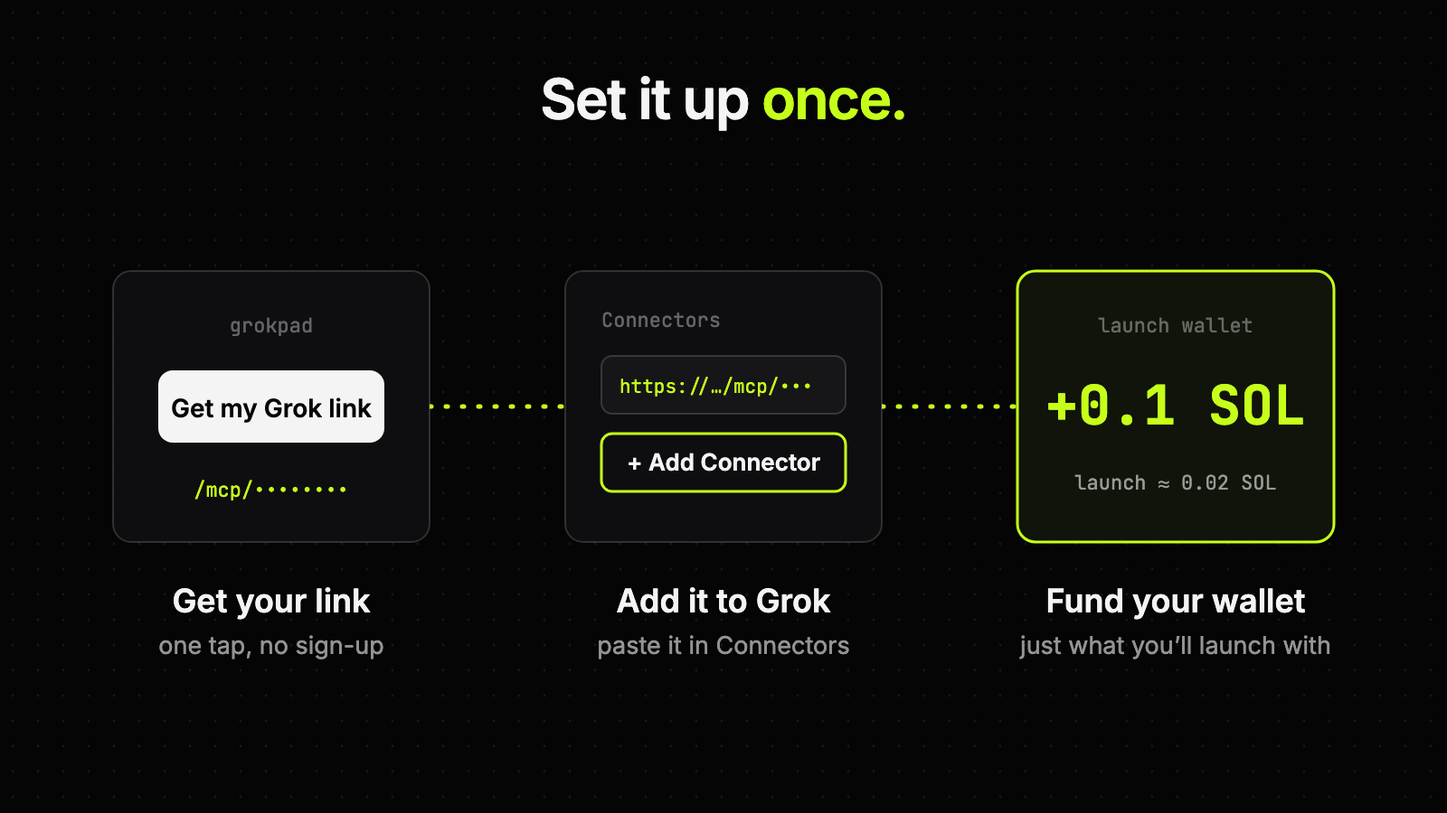
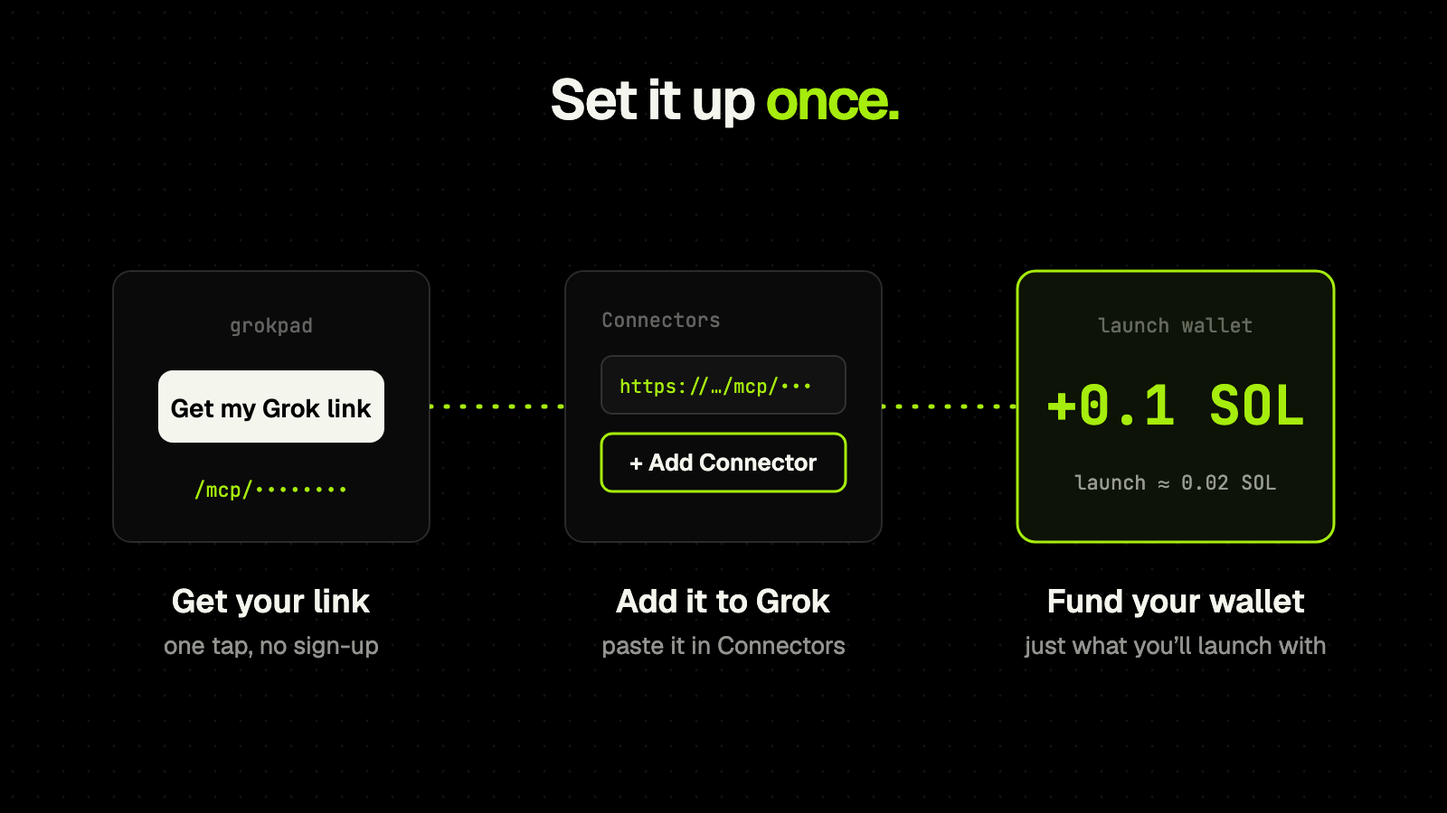
fix: Grokpad article uses the real wordmark and grokpad.org
The first pass typed the name in a plain font and linked the Railway address; the redesign has an LED wordmark and the domain is live.

diff --git a/kits/grokpad/art/02-setup.html b/kits/grokpad/art/02-setup.html
@@ -1,21 +1,21 @@
 <!doctype html><html><head><meta charset="utf-8">
 <link rel="preconnect" href="https://fonts.googleapis.com"><link rel="preconnect" href="https://fonts.gstatic.com" crossorigin>
-<link href="https://fonts.googleapis.com/css2?family=Inter:wght@400;500;600;700&family=JetBrains+Mono:wght@400;500;700&display=block" rel="stylesheet">
+<link href="https://fonts.googleapis.com/css2?family=Geist:wght@400;500;600;700&family=JetBrains+Mono:wght@400;500;700&display=block" rel="stylesheet">
 <style>
-html,body{margin:0;padding:0;background:#050506;overflow:hidden}
+html,body{margin:0;padding:0;background:#000000;overflow:hidden}
 svg{display:block}
-.disp{font-family:Inter;font-weight:600;fill:#f4f4f5;letter-spacing:-0.025em}
-.txt{font-family:Inter;fill:#f4f4f5}
-.muted{font-family:Inter;fill:rgb(244 244 245 / 0.6)}
-.dim{font-family:Inter;fill:rgb(244 244 245 / 0.38)}
-.mono{font-family:'JetBrains Mono';fill:#f4f4f5}
-.lime{fill:#c6ff1a}
-.panel{fill:#0e0e10;stroke:rgb(255 255 255 / 0.16);stroke-width:2}
-.panel-lit{fill:#10140a;stroke:#c6ff1a;stroke-width:3}
-.wire{fill:none;stroke:#c6ff1a;stroke-width:5;stroke-linecap:round}
+.disp{font-family:Geist;font-weight:600;fill:#f4f6ee;letter-spacing:-0.04em}
+.txt{font-family:Geist;fill:#f4f6ee}
+.muted{font-family:Geist;fill:rgb(244 246 238 / 0.6)}
+.dim{font-family:Geist;fill:rgb(244 246 238 / 0.38)}
+.mono{font-family:'JetBrains Mono';fill:#f4f6ee}
+.lime{fill:#a6ec0d}
+.panel{fill:#0a0a0a;stroke:rgb(255 255 255 / 0.15);stroke-width:2}
+.panel-lit{fill:#0d1306;stroke:#a6ec0d;stroke-width:3}
+.wire{fill:none;stroke:#a6ec0d;stroke-width:5;stroke-linecap:round}
 .wire-dim{fill:none;stroke:rgb(255 255 255 / 0.22);stroke-width:4;stroke-linecap:round}
-.dash{fill:none;stroke:#c6ff1a;stroke-width:5;stroke-dasharray:2 16;stroke-linecap:round}
+.dash{fill:none;stroke:#a6ec0d;stroke-width:5;stroke-dasharray:2 16;stroke-linecap:round}
 </style></head><body><svg width="1600" height="900" viewBox="0 0 1600 900"><defs>
-<radialGradient id="glow" cx="0.5" cy="0.5" r="0.5"><stop offset="0" stop-color="#c6ff1a" stop-opacity="0.16"/><stop offset="1" stop-color="#c6ff1a" stop-opacity="0"/></radialGradient>
-<pattern id="dots" width="28" height="28" patternUnits="userSpaceOnUse"><circle cx="14" cy="14" r="1.4" fill="#ffffff" fill-opacity="0.07"/></pattern>
-</defs><rect width="1600" height="900" fill="url(#dots)"/><text class="disp" x="800" y="132" font-size="62" text-anchor="middle">Set it up <tspan class="lime">once.</tspan></text><path class="dash" d="M475 450H625"/><path class="dash" d="M975 450H1125"/><rect x="125" y="300" width="350" height="300" rx="20" class="panel"/><rect x="175" y="410" width="250" height="80" rx="16" fill="#f4f4f5"/><text class="txt" x="300" y="462" font-size="28" font-weight="600" text-anchor="middle" style="fill:#050506">Get my Grok link</text><text class="mono" x="300" y="368" font-size="22" text-anchor="middle" style="fill:rgb(244 244 245 / 0.38)">grokpad</text><text class="mono lime" x="300" y="550" font-size="22" text-anchor="middle">/mcp/••••••••</text><rect x="625" y="300" width="350" height="300" rx="20" class="panel"/><text class="mono" x="665" y="362" font-size="22" style="fill:rgb(244 244 245 / 0.38)">Connectors</text><rect x="665" y="394" width="270" height="64" rx="12" fill="#161619" stroke="rgb(255 255 255 / 0.16)" stroke-width="2"/><text class="mono lime" x="685" y="435" font-size="21">https://…/mcp/•••</text><rect x="665" y="480" width="270" height="64" rx="12" fill="none" stroke="#c6ff1a" stroke-width="3"/><text class="txt" x="800" y="521" font-size="26" font-weight="600" text-anchor="middle">+ Add Connector</text><rect x="1125" y="300" width="350" height="300" rx="20" class="panel-lit"/><text class="mono" x="1300" y="368" font-size="22" text-anchor="middle" style="fill:rgb(244 244 245 / 0.38)">launch wallet</text><text class="mono lime" x="1300" y="470" font-size="60" font-weight="700" text-anchor="middle">+0.1 SOL</text><text class="mono" x="1300" y="542" font-size="22" text-anchor="middle" style="fill:rgb(244 244 245 / 0.6)">launch ≈ 0.02 SOL</text><text class="txt" x="300" y="678" font-size="36" font-weight="600" text-anchor="middle">Get your link</text><text class="muted" x="300" y="724" font-size="27" text-anchor="middle">one tap, no sign-up</text><text class="txt" x="800" y="678" font-size="36" font-weight="600" text-anchor="middle">Add it to Grok</text><text class="muted" x="800" y="724" font-size="27" text-anchor="middle">paste it in Connectors</text><text class="txt" x="1300" y="678" font-size="36" font-weight="600" text-anchor="middle">Fund your wallet</text><text class="muted" x="1300" y="724" font-size="27" text-anchor="middle">just what you’ll launch with</text></svg></body></html>
+<radialGradient id="glow" cx="0.5" cy="0.5" r="0.5"><stop offset="0" stop-color="#5aab04" stop-opacity="0.22"/><stop offset="1" stop-color="#a6ec0d" stop-opacity="0"/></radialGradient>
+<pattern id="dots" width="28" height="28" patternUnits="userSpaceOnUse"><circle cx="14" cy="14" r="1.4" fill="#ffffff" fill-opacity="0.075"/></pattern>
+</defs><rect width="1600" height="900" fill="url(#dots)"/><text class="disp" x="800" y="132" font-size="62" text-anchor="middle">Set it up <tspan class="lime">once.</tspan></text><path class="dash" d="M475 450H625"/><path class="dash" d="M975 450H1125"/><rect x="125" y="300" width="350" height="300" rx="20" class="panel"/><rect x="175" y="410" width="250" height="80" rx="16" fill="#f4f6ee"/><text class="txt" x="300" y="462" font-size="28" font-weight="600" text-anchor="middle" style="fill:#000000">Get my Grok link</text><text class="mono" x="300" y="368" font-size="22" text-anchor="middle" style="fill:rgb(244 246 238 / 0.38)">grokpad</text><text class="mono lime" x="300" y="550" font-size="22" text-anchor="middle">/mcp/••••••••</text><rect x="625" y="300" width="350" height="300" rx="20" class="panel"/><text class="mono" x="665" y="362" font-size="22" style="fill:rgb(244 246 238 / 0.38)">Connectors</text><rect x="665" y="394" width="270" height="64" rx="12" fill="#121212" stroke="rgb(255 255 255 / 0.15)" stroke-width="2"/><text class="mono lime" x="685" y="435" font-size="21">https://…/mcp/•••</text><rect x="665" y="480" width="270" height="64" rx="12" fill="none" stroke="#a6ec0d" stroke-width="3"/><text class="txt" x="800" y="521" font-size="26" font-weight="600" text-anchor="middle">+ Add Connector</text><rect x="1125" y="300" width="350" height="300" rx="20" class="panel-lit"/><text class="mono" x="1300" y="368" font-size="22" text-anchor="middle" style="fill:rgb(244 246 238 / 0.38)">launch wallet</text><text class="mono lime" x="1300" y="470" font-size="60" font-weight="700" text-anchor="middle">+0.1 SOL</text><text class="mono" x="1300" y="542" font-size="22" text-anchor="middle" style="fill:rgb(244 246 238 / 0.6)">launch ≈ 0.02 SOL</text><text class="txt" x="300" y="678" font-size="36" font-weight="600" text-anchor="middle">Get your link</text><text class="muted" x="300" y="724" font-size="27" text-anchor="middle">one tap, no sign-up</text><text class="txt" x="800" y="678" font-size="36" font-weight="600" text-anchor="middle">Add it to Grok</text><text class="muted" x="800" y="724" font-size="27" text-anchor="middle">paste it in Connectors</text><text class="txt" x="1300" y="678" font-size="36" font-weight="600" text-anchor="middle">Fund your wallet</text><text class="muted" x="1300" y="724" font-size="27" text-anchor="middle">just what you’ll launch with</text></svg></body></html>

diff --git a/kits/grokpad/art/03-ask.html b/kits/grokpad/art/03-ask.html
@@ -1,21 +1,21 @@
 <!doctype html><html><head><meta charset="utf-8">
 <link rel="preconnect" href="https://fonts.googleapis.com"><link rel="preconnect" href="https://fonts.gstatic.com" crossorigin>
-<link href="https://fonts.googleapis.com/css2?family=Inter:wght@400;500;600;700&family=JetBrains+Mono:wght@400;500;700&display=block" rel="stylesheet">
+<link href="https://fonts.googleapis.com/css2?family=Geist:wght@400;500;600;700&family=JetBrains+Mono:wght@400;500;700&display=block" rel="stylesheet">
 <style>
-html,body{margin:0;padding:0;background:#050506;overflow:hidden}
+html,body{margin:0;padding:0;background:#000000;overflow:hidden}
 svg{display:block}
-.disp{font-family:Inter;font-weight:600;fill:#f4f4f5;letter-spacing:-0.025em}
-.txt{font-family:Inter;fill:#f4f4f5}
-.muted{font-family:Inter;fill:rgb(244 244 245 / 0.6)}
-.dim{font-family:Inter;fill:rgb(244 244 245 / 0.38)}
-.mono{font-family:'JetBrains Mono';fill:#f4f4f5}
-.lime{fill:#c6ff1a}
-.panel{fill:#0e0e10;stroke:rgb(255 255 255 / 0.16);stroke-width:2}
-.panel-lit{fill:#10140a;stroke:#c6ff1a;stroke-width:3}
-.wire{fill:none;stroke:#c6ff1a;stroke-width:5;stroke-linecap:round}
+.disp{font-family:Geist;font-weight:600;fill:#f4f6ee;letter-spacing:-0.04em}
+.txt{font-family:Geist;fill:#f4f6ee}
+.muted{font-family:Geist;fill:rgb(244 246 238 / 0.6)}
+.dim{font-family:Geist;fill:rgb(244 246 238 / 0.38)}
+.mono{font-family:'JetBrains Mono';fill:#f4f6ee}
+.lime{fill:#a6ec0d}
+.panel{fill:#0a0a0a;stroke:rgb(255 255 255 / 0.15);stroke-width:2}
+.panel-lit{fill:#0d1306;stroke:#a6ec0d;stroke-width:3}
+.wire{fill:none;stroke:#a6ec0d;stroke-width:5;stroke-linecap:round}
 .wire-dim{fill:none;stroke:rgb(255 255 255 / 0.22);stroke-width:4;stroke-linecap:round}
-.dash{fill:none;stroke:#c6ff1a;stroke-width:5;stroke-dasharray:2 16;stroke-linecap:round}
+.dash{fill:none;stroke:#a6ec0d;stroke-width:5;stroke-dasharray:2 16;stroke-linecap:round}
 </style></head><body><svg width="1600" height="900" viewBox="0 0 1600 900"><defs>
-<radialGradient id="glow" cx="0.5" cy="0.5" r="0.5"><stop offset="0" stop-color="#c6ff1a" stop-opacity="0.16"/><stop offset="1" stop-color="#c6ff1a" stop-opacity="0"/></radialGradient>
-<pattern id="dots" width="28" height="28" patternUnits="userSpaceOnUse"><circle cx="14" cy="14" r="1.4" fill="#ffffff" fill-opacity="0.07"/></pattern>
-</defs><rect width="1600" height="900" fill="url(#dots)"/><text class="disp" x="800" y="132" font-size="62" text-anchor="middle">Then just <tspan class="lime">ask.</tspan></text><rect x="230" y="210" width="1140" height="560" rx="28" class="panel"/><text class="mono" x="290" y="290" font-size="26" style="fill:rgb(244 244 245 / 0.38)">you</text><text class="mono" x="290" y="338" font-size="31">launch a coin called Moon Cat, ticker MCAT,</text><text class="mono" x="290" y="382" font-size="31">about a cat that lives on the moon</text><text class="mono" x="290" y="466" font-size="26" style="fill:rgb(244 244 245 / 0.38)">grok</text><text class="mono" x="290" y="514" font-size="31" style="fill:rgb(244 244 245 / 0.6)">Done. <tspan style="fill:#f4f4f5">Moon Cat ($MCAT)</tspan> is live on pump.fun:</text><text class="mono lime" x="290" y="558" font-size="31">pump.fun/coin/7xKp…pump</text><text class="mono" x="290" y="602" font-size="31" style="fill:rgb(244 244 245 / 0.6)">Creator fees are locked: 80% to you, 20% to Grokpad.</text><rect x="286.0" y="660" width="330" height="64" rx="32" fill="#161619" stroke="rgb(255 255 255 / 0.16)" stroke-width="2"/><text class="mono" x="451.0" y="701" font-size="23" text-anchor="middle" style="fill:rgb(244 244 245 / 0.6)">“what’s my balance?”</text><rect x="640.0" y="660" width="270" height="64" rx="32" fill="#161619" stroke="rgb(255 255 255 / 0.16)" stroke-width="2"/><text class="mono" x="775.0" y="701" font-size="23" text-anchor="middle" style="fill:rgb(244 244 245 / 0.6)">“sell my MCAT”</text><rect x="934.0" y="660" width="380" height="64" rx="32" fill="#161619" stroke="rgb(255 255 255 / 0.16)" stroke-width="2"/><text class="mono" x="1124.0" y="701" font-size="23" text-anchor="middle" style="fill:rgb(244 244 245 / 0.6)">“withdraw to my wallet”</text><text class="dim" x="800" y="850" font-size="27" text-anchor="middle">No wallet pop-ups. No forms.</text></svg></body></html>
+<radialGradient id="glow" cx="0.5" cy="0.5" r="0.5"><stop offset="0" stop-color="#5aab04" stop-opacity="0.22"/><stop offset="1" stop-color="#a6ec0d" stop-opacity="0"/></radialGradient>
+<pattern id="dots" width="28" height="28" patternUnits="userSpaceOnUse"><circle cx="14" cy="14" r="1.4" fill="#ffffff" fill-opacity="0.075"/></pattern>
+</defs><rect width="1600" height="900" fill="url(#dots)"/><text class="disp" x="800" y="132" font-size="62" text-anchor="middle">Then just <tspan class="lime">ask.</tspan></text><rect x="230" y="210" width="1140" height="560" rx="28" class="panel"/><text class="mono" x="290" y="290" font-size="26" style="fill:rgb(244 246 238 / 0.38)">you</text><text class="mono" x="290" y="338" font-size="31">launch a coin called Moon Cat, ticker MCAT,</text><text class="mono" x="290" y="382" font-size="31">about a cat that lives on the moon</text><text class="mono" x="290" y="466" font-size="26" style="fill:rgb(244 246 238 / 0.38)">grok</text><text class="mono" x="290" y="514" font-size="31" style="fill:rgb(244 246 238 / 0.6)">Done. <tspan style="fill:#f4f6ee">Moon Cat ($MCAT)</tspan> is live on pump.fun:</text><text class="mono lime" x="290" y="558" font-size="31">pump.fun/coin/7xKp…pump</text><text class="mono" x="290" y="602" font-size="31" style="fill:rgb(244 246 238 / 0.6)">Creator fees are locked: 80% to you, 20% to Grokpad.</text><rect x="286.0" y="660" width="330" height="64" rx="32" fill="#121212" stroke="rgb(255 255 255 / 0.15)" stroke-width="2"/><text class="mono" x="451.0" y="701" font-size="23" text-anchor="middle" style="fill:rgb(244 246 238 / 0.6)">“what’s my balance?”</text><rect x="640.0" y="660" width="270" height="64" rx="32" fill="#121212" stroke="rgb(255 255 255 / 0.15)" stroke-width="2"/><text class="mono" x="775.0" y="701" font-size="23" text-anchor="middle" style="fill:rgb(244 246 238 / 0.6)">“sell my MCAT”</text><rect x="934.0" y="660" width="380" height="64" rx="32" fill="#121212" stroke="rgb(255 255 255 / 0.15)" stroke-width="2"/><text class="mono" x="1124.0" y="701" font-size="23" text-anchor="middle" style="fill:rgb(244 246 238 / 0.6)">“withdraw to my wallet”</text><text class="dim" x="800" y="850" font-size="27" text-anchor="middle">No wallet pop-ups. No forms.</text></svg></body></html>

diff --git a/kits/grokpad/art/04-fees.html b/kits/grokpad/art/04-fees.html
@@ -1,21 +1,21 @@
 <!doctype html><html><head><meta charset="utf-8">
 <link rel="preconnect" href="https://fonts.googleapis.com"><link rel="preconnect" href="https://fonts.gstatic.com" crossorigin>
-<link href="https://fonts.googleapis.com/css2?family=Inter:wght@400;500;600;700&family=JetBrains+Mono:wght@400;500;700&display=block" rel="stylesheet">
+<link href="https://fonts.googleapis.com/css2?family=Geist:wght@400;500;600;700&family=JetBrains+Mono:wght@400;500;700&display=block" rel="stylesheet">
 <style>
-html,body{margin:0;padding:0;background:#050506;overflow:hidden}
+html,body{margin:0;padding:0;background:#000000;overflow:hidden}
 svg{display:block}
-.disp{font-family:Inter;font-weight:600;fill:#f4f4f5;letter-spacing:-0.025em}
-.txt{font-family:Inter;fill:#f4f4f5}
-.muted{font-family:Inter;fill:rgb(244 244 245 / 0.6)}
-.dim{font-family:Inter;fill:rgb(244 244 245 / 0.38)}
-.mono{font-family:'JetBrains Mono';fill:#f4f4f5}
-.lime{fill:#c6ff1a}
-.panel{fill:#0e0e10;stroke:rgb(255 255 255 / 0.16);stroke-width:2}
-.panel-lit{fill:#10140a;stroke:#c6ff1a;stroke-width:3}
-.wire{fill:none;stroke:#c6ff1a;stroke-width:5;stroke-linecap:round}
+.disp{font-family:Geist;font-weight:600;fill:#f4f6ee;letter-spacing:-0.04em}
+.txt{font-family:Geist;fill:#f4f6ee}
+.muted{font-family:Geist;fill:rgb(244 246 238 / 0.6)}
+.dim{font-family:Geist;fill:rgb(244 246 238 / 0.38)}
+.mono{font-family:'JetBrains Mono';fill:#f4f6ee}
+.lime{fill:#a6ec0d}
+.panel{fill:#0a0a0a;stroke:rgb(255 255 255 / 0.15);stroke-width:2}
+.panel-lit{fill:#0d1306;stroke:#a6ec0d;stroke-width:3}
+.wire{fill:none;stroke:#a6ec0d;stroke-width:5;stroke-linecap:round}
 .wire-dim{fill:none;stroke:rgb(255 255 255 / 0.22);stroke-width:4;stroke-linecap:round}
-.dash{fill:none;stroke:#c6ff1a;stroke-width:5;stroke-dasharray:2 16;stroke-linecap:round}
+.dash{fill:none;stroke:#a6ec0d;stroke-width:5;stroke-dasharray:2 16;stroke-linecap:round}
 </style></head><body><svg width="1600" height="900" viewBox="0 0 1600 900"><defs>
-<radialGradient id="glow" cx="0.5" cy="0.5" r="0.5"><stop offset="0" stop-color="#c6ff1a" stop-opacity="0.16"/><stop offset="1" stop-color="#c6ff1a" stop-opacity="0"/></radialGradient>
-<pattern id="dots" width="28" height="28" patternUnits="userSpaceOnUse"><circle cx="14" cy="14" r="1.4" fill="#ffffff" fill-opacity="0.07"/></pattern>
-</defs><rect width="1600" height="900" fill="url(#dots)"/><text class="disp" x="800" y="132" font-size="62" text-anchor="middle"><tspan class="lime">80%</tspan> of the fees are yours.</text><rect x="110" y="370" width="360" height="220" rx="20" class="panel"/><text class="muted" x="150" y="440" font-size="28">Creator fees</text><text class="mono" x="150" y="506" font-size="50" font-weight="700">$MCAT</text><text class="dim" x="150" y="552" font-size="25">every trade, forever</text><path class="wire" d="M470 480H640"/><circle cx="760" cy="480" r="195.5" fill="url(#glow)"/><image href="logo.png" x="645.0" y="365.0" width="230" height="230"/><path d="M870 480 C960 480 960 330 1050 330" fill="none" stroke="#c6ff1a" stroke-width="12" stroke-linecap="round"/><path d="M870 480 C960 480 960 650 1050 650" class="wire-dim"/><rect x="1050" y="235" width="440" height="190" rx="20" class="panel-lit"/><text class="mono lime" x="1090" y="364" font-size="96" font-weight="700">80%</text><text class="txt" x="1450" y="324" font-size="32" font-weight="600" text-anchor="end">You</text><text class="muted" x="1450" y="364" font-size="25" text-anchor="end">your wallet</text><rect x="1050" y="570" width="440" height="160" rx="20" class="panel"/><text class="mono" x="1090" y="674" font-size="70" font-weight="700" style="fill:rgb(244 244 245 / 0.6)">20%</text><text class="txt" x="1450" y="660" font-size="32" font-weight="600" text-anchor="end" style="fill:rgb(244 244 245 / 0.6)">Grokpad</text><text class="dim" x="800" y="840" font-size="27" text-anchor="middle">Locked on pump.fun’s fee program at launch. Nobody can change it, us included.</text></svg></body></html>
+<radialGradient id="glow" cx="0.5" cy="0.5" r="0.5"><stop offset="0" stop-color="#5aab04" stop-opacity="0.22"/><stop offset="1" stop-color="#a6ec0d" stop-opacity="0"/></radialGradient>
+<pattern id="dots" width="28" height="28" patternUnits="userSpaceOnUse"><circle cx="14" cy="14" r="1.4" fill="#ffffff" fill-opacity="0.075"/></pattern>
+</defs><rect width="1600" height="900" fill="url(#dots)"/><text class="disp" x="800" y="132" font-size="62" text-anchor="middle"><tspan class="lime">80%</tspan> of the fees are yours.</text><rect x="110" y="370" width="360" height="220" rx="20" class="panel"/><text class="muted" x="150" y="440" font-size="28">Creator fees</text><text class="mono" x="150" y="506" font-size="50" font-weight="700">$MCAT</text><text class="dim" x="150" y="552" font-size="25">every trade, forever</text><path class="wire" d="M470 480H640"/><circle cx="760" cy="480" r="195.5" fill="url(#glow)"/><image href="logo.png" x="645.0" y="365.0" width="230" height="230"/><path d="M870 480 C960 480 960 330 1050 330" fill="none" stroke="#a6ec0d" stroke-width="12" stroke-linecap="round"/><path d="M870 480 C960 480 960 650 1050 650" class="wire-dim"/><rect x="1050" y="235" width="440" height="190" rx="20" class="panel-lit"/><text class="mono lime" x="1090" y="364" font-size="96" font-weight="700">80%</text><text class="txt" x="1450" y="324" font-size="32" font-weight="600" text-anchor="end">You</text><text class="muted" x="1450" y="364" font-size="25" text-anchor="end">your wallet</text><rect x="1050" y="570" width="440" height="160" rx="20" class="panel"/><text class="mono" x="1090" y="674" font-size="70" font-weight="700" style="fill:rgb(244 246 238 / 0.6)">20%</text><text class="txt" x="1450" y="660" font-size="32" font-weight="600" text-anchor="end" style="fill:rgb(244 246 238 / 0.6)">Grokpad</text><text class="dim" x="800" y="840" font-size="27" text-anchor="middle">Locked on pump.fun’s fee program at launch. Nobody can change it, us included.</text></svg></body></html>

diff --git a/kits/grokpad/art/05-close.html b/kits/grokpad/art/05-close.html
@@ -1,21 +1,21 @@
 <!doctype html><html><head><meta charset="utf-8">
 <link rel="preconnect" href="https://fonts.googleapis.com"><link rel="preconnect" href="https://fonts.gstatic.com" crossorigin>
-<link href="https://fonts.googleapis.com/css2?family=Inter:wght@400;500;600;700&family=JetBrains+Mono:wght@400;500;700&display=block" rel="stylesheet">
+<link href="https://fonts.googleapis.com/css2?family=Geist:wght@400;500;600;700&family=JetBrains+Mono:wght@400;500;700&display=block" rel="stylesheet">
 <style>
-html,body{margin:0;padding:0;background:#050506;overflow:hidden}
+html,body{margin:0;padding:0;background:#000000;overflow:hidden}
 svg{display:block}
-.disp{font-family:Inter;font-weight:600;fill:#f4f4f5;letter-spacing:-0.025em}
-.txt{font-family:Inter;fill:#f4f4f5}
-.muted{font-family:Inter;fill:rgb(244 244 245 / 0.6)}
-.dim{font-family:Inter;fill:rgb(244 244 245 / 0.38)}
-.mono{font-family:'JetBrains Mono';fill:#f4f4f5}
-.lime{fill:#c6ff1a}
-.panel{fill:#0e0e10;stroke:rgb(255 255 255 / 0.16);stroke-width:2}
-.panel-lit{fill:#10140a;stroke:#c6ff1a;stroke-width:3}
-.wire{fill:none;stroke:#c6ff1a;stroke-width:5;stroke-linecap:round}
+.disp{font-family:Geist;font-weight:600;fill:#f4f6ee;letter-spacing:-0.04em}
+.txt{font-family:Geist;fill:#f4f6ee}
+.muted{font-family:Geist;fill:rgb(244 246 238 / 0.6)}
+.dim{font-family:Geist;fill:rgb(244 246 238 / 0.38)}
+.mono{font-family:'JetBrains Mono';fill:#f4f6ee}
+.lime{fill:#a6ec0d}
+.panel{fill:#0a0a0a;stroke:rgb(255 255 255 / 0.15);stroke-width:2}
+.panel-lit{fill:#0d1306;stroke:#a6ec0d;stroke-width:3}
+.wire{fill:none;stroke:#a6ec0d;stroke-width:5;stroke-linecap:round}
 .wire-dim{fill:none;stroke:rgb(255 255 255 / 0.22);stroke-width:4;stroke-linecap:round}
-.dash{fill:none;stroke:#c6ff1a;stroke-width:5;stroke-dasharray:2 16;stroke-linecap:round}
+.dash{fill:none;stroke:#a6ec0d;stroke-width:5;stroke-dasharray:2 16;stroke-linecap:round}
 </style></head><body><svg width="1600" height="900" viewBox="0 0 1600 900"><defs>
-<radialGradient id="glow" cx="0.5" cy="0.5" r="0.5"><stop offset="0" stop-color="#c6ff1a" stop-opacity="0.16"/><stop offset="1" stop-color="#c6ff1a" stop-opacity="0"/></radialGradient>
-<pattern id="dots" width="28" height="28" patternUnits="userSpaceOnUse"><circle cx="14" cy="14" r="1.4" fill="#ffffff" fill-opacity="0.07"/></pattern>
-</defs><rect width="1600" height="900" fill="url(#dots)"/><ellipse cx="800" cy="390" rx="620" ry="300" fill="url(#glow)"/><circle cx="529.4499999999999" cy="380" r="238.0" fill="url(#glow)"/><image href="logo.png" x="389.44999999999993" y="240.0" width="280" height="280"/><text class="disp" x="686.2499999999999" y="430.4" font-size="140">Grokpad</text><text class="mono lime" x="800" y="650" font-size="40" font-weight="500" text-anchor="middle">web-production-7f245.up.railway.app</text><text class="muted" x="800" y="720" font-size="32" text-anchor="middle">Say it. It’s live.</text></svg></body></html>
+<radialGradient id="glow" cx="0.5" cy="0.5" r="0.5"><stop offset="0" stop-color="#5aab04" stop-opacity="0.22"/><stop offset="1" stop-color="#a6ec0d" stop-opacity="0"/></radialGradient>
+<pattern id="dots" width="28" height="28" patternUnits="userSpaceOnUse"><circle cx="14" cy="14" r="1.4" fill="#ffffff" fill-opacity="0.075"/></pattern>
+</defs><rect width="1600" height="900" fill="url(#dots)"/><ellipse cx="800" cy="370" rx="692.2315270935961" ry="285.0" fill="url(#glow)"/><image href="lockup.png" x="241.74876847290636" y="220.0" width="1116.5024630541873" height="300"/><text class="mono lime" x="800" y="650" font-size="40" font-weight="500" text-anchor="middle">grokpad.org</text><text class="muted" x="800" y="720" font-size="32" text-anchor="middle">Say it. It’s live.</text></svg></body></html>

diff --git a/kits/grokpad/art/01-cover.html b/kits/grokpad/art/01-cover.html
@@ -1,21 +1,21 @@
 <!doctype html><html><head><meta charset="utf-8">
 <link rel="preconnect" href="https://fonts.googleapis.com"><link rel="preconnect" href="https://fonts.gstatic.com" crossorigin>
-<link href="https://fonts.googleapis.com/css2?family=Inter:wght@400;500;600;700&family=JetBrains+Mono:wght@400;500;700&display=block" rel="stylesheet">
+<link href="https://fonts.googleapis.com/css2?family=Geist:wght@400;500;600;700&family=JetBrains+Mono:wght@400;500;700&display=block" rel="stylesheet">
 <style>
-html,body{margin:0;padding:0;background:#050506;overflow:hidden}
+html,body{margin:0;padding:0;background:#000000;overflow:hidden}
 svg{display:block}
-.disp{font-family:Inter;font-weight:600;fill:#f4f4f5;letter-spacing:-0.025em}
-.txt{font-family:Inter;fill:#f4f4f5}
-.muted{font-family:Inter;fill:rgb(244 244 245 / 0.6)}
-.dim{font-family:Inter;fill:rgb(244 244 245 / 0.38)}
-.mono{font-family:'JetBrains Mono';fill:#f4f4f5}
-.lime{fill:#c6ff1a}
-.panel{fill:#0e0e10;stroke:rgb(255 255 255 / 0.16);stroke-width:2}
-.panel-lit{fill:#10140a;stroke:#c6ff1a;stroke-width:3}
-.wire{fill:none;stroke:#c6ff1a;stroke-width:5;stroke-linecap:round}
+.disp{font-family:Geist;font-weight:600;fill:#f4f6ee;letter-spacing:-0.04em}
+.txt{font-family:Geist;fill:#f4f6ee}
+.muted{font-family:Geist;fill:rgb(244 246 238 / 0.6)}
+.dim{font-family:Geist;fill:rgb(244 246 238 / 0.38)}
+.mono{font-family:'JetBrains Mono';fill:#f4f6ee}
+.lime{fill:#a6ec0d}
+.panel{fill:#0a0a0a;stroke:rgb(255 255 255 / 0.15);stroke-width:2}
+.panel-lit{fill:#0d1306;stroke:#a6ec0d;stroke-width:3}
+.wire{fill:none;stroke:#a6ec0d;stroke-width:5;stroke-linecap:round}
 .wire-dim{fill:none;stroke:rgb(255 255 255 / 0.22);stroke-width:4;stroke-linecap:round}
-.dash{fill:none;stroke:#c6ff1a;stroke-width:5;stroke-dasharray:2 16;stroke-linecap:round}
+.dash{fill:none;stroke:#a6ec0d;stroke-width:5;stroke-dasharray:2 16;stroke-linecap:round}
 </style></head><body><svg width="2000" height="800" viewBox="0 0 2000 800"><defs>
-<radialGradient id="glow" cx="0.5" cy="0.5" r="0.5"><stop offset="0" stop-color="#c6ff1a" stop-opacity="0.16"/><stop offset="1" stop-color="#c6ff1a" stop-opacity="0"/></radialGradient>
-<pattern id="dots" width="28" height="28" patternUnits="userSpaceOnUse"><circle cx="14" cy="14" r="1.4" fill="#ffffff" fill-opacity="0.07"/></pattern>
-</defs><rect width="2000" height="800" fill="url(#dots)"/><ellipse cx="1000" cy="400" rx="760" ry="330" fill="url(#glow)"/><circle cx="671.775" cy="360" r="280.5" fill="url(#glow)"/><image href="logo.png" x="506.775" y="195.0" width="330" height="330"/><text class="disp" x="856.5749999999999" y="421.2" font-size="170">Grokpad</text><text class="muted" x="1000" y="640" font-size="52" text-anchor="middle" font-weight="500">Launch coins by <tspan class="lime">asking Grok.</tspan></text></svg></body></html>
+<radialGradient id="glow" cx="0.5" cy="0.5" r="0.5"><stop offset="0" stop-color="#5aab04" stop-opacity="0.22"/><stop offset="1" stop-color="#a6ec0d" stop-opacity="0"/></radialGradient>
+<pattern id="dots" width="28" height="28" patternUnits="userSpaceOnUse"><circle cx="14" cy="14" r="1.4" fill="#ffffff" fill-opacity="0.075"/></pattern>
+</defs><rect width="2000" height="800" fill="url(#dots)"/><ellipse cx="1000" cy="350" rx="784.5290640394088" ry="323.0" fill="url(#glow)"/><image href="lockup.png" x="367.3152709359606" y="180.0" width="1265.3694581280788" height="340"/><text class="muted" x="1000" y="640" font-size="52" text-anchor="middle" font-weight="500">Launch coins by <tspan class="lime">asking Grok.</tspan></text></svg></body></html>

diff --git a/docs/grokpad/index.html b/docs/grokpad/index.html
@@ -49,7 +49,7 @@ button.ok{background:#f5b301;color:#111}
 <p>Check your balance, sell or withdraw the same way.</p>
 <h2>80% of the fees are yours</h2></div></div></div><div class="step"><div class="num">8</div><div class="card"><div class="head"><span class="tag">Image</span><span class="sp"></span><a class="btn ghost" download="04-fees.png" href="04-fees.png">Download</a><button onclick="copyImage(this)">Copy image</button></div><img src="04-fees.png" alt=""></div></div><div class="step"><div class="num">9</div><div class="card"><div class="head"><span class="tag">Text</span><span class="sp"></span><button onclick="copyText(this)">Copy</button></div><div class="body"><p>Every trade of your coin pays a creator fee. <b>80% goes to your wallet, 20% to Grokpad.</b></p>
 <p>The split is written into pump.fun’s own fee program at launch. Nobody can change it, us included. Payouts run on their own.</p></div></div></div><div class="step"><div class="num">10</div><div class="card"><div class="head"><span class="tag">Image</span><span class="sp"></span><a class="btn ghost" download="05-close.png" href="05-close.png">Download</a><button onclick="copyImage(this)">Copy image</button></div><img src="05-close.png" alt=""></div></div><div class="step"><div class="num">11</div><div class="card"><div class="head"><span class="tag">Text</span><span class="sp"></span><button onclick="copyText(this)">Copy</button></div><div class="body"><h2>Say it. It’s live.</h2>
-<p><b>Get your link at web-production-7f245.up.railway.app</b></p>
+<p><b>Get your link at grokpad.org</b></p>
 <p>What’s the first coin you’d ask Grok for?</p></div></div></div></div>
 </div>
 <div class="toast" id="toast">Copied</div>

diff --git a/kits/grokpad/art/gen.py b/kits/grokpad/art/gen.py
@@ -1,35 +1,35 @@
 """Builds each article picture as an HTML page in Grokpad's look. tools/render.py shoots them to PNG.
 
-Colours and fonts come from the grok-launcher site (globals.css, layout.tsx): near-black, white type,
-Inter + JetBrains Mono. The highlight is the lime from the newest logo (branding/logo.png, keyed to logo.png here).
+Colours, fonts and logos come from the grok-launcher redesign (frontend worktree: globals.css, docs/BRAND.md,
+public/brand): LED white on true black, Geist + JetBrains Mono, the logo's lime as the one accent.
 """
 
 HEAD = '''<!doctype html><html><head><meta charset="utf-8">
 <link rel="preconnect" href="https://fonts.googleapis.com"><link rel="preconnect" href="https://fonts.gstatic.com" crossorigin>
-<link href="https://fonts.googleapis.com/css2?family=Inter:wght@400;500;600;700&family=JetBrains+Mono:wght@400;500;700&display=block" rel="stylesheet">
+<link href="https://fonts.googleapis.com/css2?family=Geist:wght@400;500;600;700&family=JetBrains+Mono:wght@400;500;700&display=block" rel="stylesheet">
 <style>
-html,body{margin:0;padding:0;background:#050506;overflow:hidden}
+html,body{margin:0;padding:0;background:#000000;overflow:hidden}
 svg{display:block}
-.disp{font-family:Inter;font-weight:600;fill:#f4f4f5;letter-spacing:-0.025em}
-.txt{font-family:Inter;fill:#f4f4f5}
-.muted{font-family:Inter;fill:rgb(244 244 245 / 0.6)}
-.dim{font-family:Inter;fill:rgb(244 244 245 / 0.38)}
-.mono{font-family:'JetBrains Mono';fill:#f4f4f5}
-.lime{fill:#c6ff1a}
-.panel{fill:#0e0e10;stroke:rgb(255 255 255 / 0.16);stroke-width:2}
-.panel-lit{fill:#10140a;stroke:#c6ff1a;stroke-width:3}
-.wire{fill:none;stroke:#c6ff1a;stroke-width:5;stroke-linecap:round}
+.disp{font-family:Geist;font-weight:600;fill:#f4f6ee;letter-spacing:-0.04em}
+.txt{font-family:Geist;fill:#f4f6ee}
+.muted{font-family:Geist;fill:rgb(244 246 238 / 0.6)}
+.dim{font-family:Geist;fill:rgb(244 246 238 / 0.38)}
+.mono{font-family:'JetBrains Mono';fill:#f4f6ee}
+.lime{fill:#a6ec0d}
+.panel{fill:#0a0a0a;stroke:rgb(255 255 255 / 0.15);stroke-width:2}
+.panel-lit{fill:#0d1306;stroke:#a6ec0d;stroke-width:3}
+.wire{fill:none;stroke:#a6ec0d;stroke-width:5;stroke-linecap:round}
 .wire-dim{fill:none;stroke:rgb(255 255 255 / 0.22);stroke-width:4;stroke-linecap:round}
-.dash{fill:none;stroke:#c6ff1a;stroke-width:5;stroke-dasharray:2 16;stroke-linecap:round}
+.dash{fill:none;stroke:#a6ec0d;stroke-width:5;stroke-dasharray:2 16;stroke-linecap:round}
 </style></head><body>'''
 
 DEFS = '''<defs>
-<radialGradient id="glow" cx="0.5" cy="0.5" r="0.5"><stop offset="0" stop-color="#c6ff1a" stop-opacity="0.16"/><stop offset="1" stop-color="#c6ff1a" stop-opacity="0"/></radialGradient>
-<pattern id="dots" width="28" height="28" patternUnits="userSpaceOnUse"><circle cx="14" cy="14" r="1.4" fill="#ffffff" fill-opacity="0.07"/></pattern>
+<radialGradient id="glow" cx="0.5" cy="0.5" r="0.5"><stop offset="0" stop-color="#5aab04" stop-opacity="0.22"/><stop offset="1" stop-color="#a6ec0d" stop-opacity="0"/></radialGradient>
+<pattern id="dots" width="28" height="28" patternUnits="userSpaceOnUse"><circle cx="14" cy="14" r="1.4" fill="#ffffff" fill-opacity="0.075"/></pattern>
 </defs>'''
 
-LIME = '#c6ff1a'
-URL = 'web-production-7f245.up.railway.app'
+LIME = '#a6ec0d'
+URL = 'grokpad.org'
 
 
 def page(name, w, h, body):
@@ -46,18 +46,15 @@ def panel(x, y, w, h, r=20, lit=False):
     return f'<rect x="{x}" y="{y}" width="{w}" height="{h}" rx="{r}" class="{"panel-lit" if lit else "panel"}"/>'
 
 
-def lockup(cx, cy, size, font):
-    """The mark plus the word Grokpad, as in the site header. Inter 600 is about 0.53em per letter here."""
-    tw = font * 0.535 * 7
-    gap = size * 0.06
-    x0 = cx - (size + gap + tw) / 2
-    return (mark(x0 + size / 2, cy, size)
-            + f'<text class="disp" x="{x0 + size + gap}" y="{cy + font * 0.36}" font-size="{font}">Grokpad</text>')
+def lockup(cx, cy, h, glow=True):
+    """The real logo + LED wordmark (public/brand/lockup.png, 1511x406), centred."""
+    w = h * 1511 / 406
+    g = f'<ellipse cx="{cx}" cy="{cy}" rx="{w * 0.62}" ry="{h * 0.95}" fill="url(#glow)"/>' if glow else ''
+    return g + f'<image href="lockup.png" x="{cx - w / 2}" y="{cy - h / 2}" width="{w}" height="{h}"/>'
 
 
 # ---------------------------------------------------------------- 1 cover 2000x800
-b = ['<ellipse cx="1000" cy="400" rx="760" ry="330" fill="url(#glow)"/>']
-b.append(lockup(1000, 360, 330, 170))
+b = [lockup(1000, 350, 340)]
 b.append('<text class="muted" x="1000" y="640" font-size="52" text-anchor="middle" font-weight="500">Launch coins by <tspan class="lime">asking Grok.</tspan></text>')
 page('01-cover.html', 2000, 800, b)
 
@@ -69,22 +66,22 @@ for a, c in zip(xs, xs[1:]):
     b.append(f'<path class="dash" d="M{a + 175} {cy}H{c - 175}"/>')
 # 1: the link
 b.append(panel(xs[0] - 175, cy - 150, 350, 300))
-b.append(f'<rect x="{xs[0] - 125}" y="{cy - 40}" width="250" height="80" rx="16" fill="#f4f4f5"/>')
-b.append(f'<text class="txt" x="{xs[0]}" y="{cy + 12}" font-size="28" font-weight="600" text-anchor="middle" style="fill:#050506">Get my Grok link</text>')
-b.append(f'<text class="mono" x="{xs[0]}" y="{cy - 82}" font-size="22" text-anchor="middle" style="fill:rgb(244 244 245 / 0.38)">grokpad</text>')
+b.append(f'<rect x="{xs[0] - 125}" y="{cy - 40}" width="250" height="80" rx="16" fill="#f4f6ee"/>')
+b.append(f'<text class="txt" x="{xs[0]}" y="{cy + 12}" font-size="28" font-weight="600" text-anchor="middle" style="fill:#000000">Get my Grok link</text>')
+b.append(f'<text class="mono" x="{xs[0]}" y="{cy - 82}" font-size="22" text-anchor="middle" style="fill:rgb(244 246 238 / 0.38)">grokpad</text>')
 b.append(f'<text class="mono lime" x="{xs[0]}" y="{cy + 100}" font-size="22" text-anchor="middle">/mcp/••••••••</text>')
 # 2: Grok connectors
 b.append(panel(xs[1] - 175, cy - 150, 350, 300))
-b.append(f'<text class="mono" x="{xs[1] - 135}" y="{cy - 88}" font-size="22" style="fill:rgb(244 244 245 / 0.38)">Connectors</text>')
-b.append(f'<rect x="{xs[1] - 135}" y="{cy - 56}" width="270" height="64" rx="12" fill="#161619" stroke="rgb(255 255 255 / 0.16)" stroke-width="2"/>')
+b.append(f'<text class="mono" x="{xs[1] - 135}" y="{cy - 88}" font-size="22" style="fill:rgb(244 246 238 / 0.38)">Connectors</text>')
+b.append(f'<rect x="{xs[1] - 135}" y="{cy - 56}" width="270" height="64" rx="12" fill="#121212" stroke="rgb(255 255 255 / 0.15)" stroke-width="2"/>')
 b.append(f'<text class="mono lime" x="{xs[1] - 115}" y="{cy - 15}" font-size="21">https://…/mcp/•••</text>')
 b.append(f'<rect x="{xs[1] - 135}" y="{cy + 30}" width="270" height="64" rx="12" fill="none" stroke="{LIME}" stroke-width="3"/>')
 b.append(f'<text class="txt" x="{xs[1]}" y="{cy + 71}" font-size="26" font-weight="600" text-anchor="middle">+ Add Connector</text>')
 # 3: fund
 b.append(panel(xs[2] - 175, cy - 150, 350, 300, lit=True))
-b.append(f'<text class="mono" x="{xs[2]}" y="{cy - 82}" font-size="22" text-anchor="middle" style="fill:rgb(244 244 245 / 0.38)">launch wallet</text>')
+b.append(f'<text class="mono" x="{xs[2]}" y="{cy - 82}" font-size="22" text-anchor="middle" style="fill:rgb(244 246 238 / 0.38)">launch wallet</text>')
 b.append(f'<text class="mono lime" x="{xs[2]}" y="{cy + 20}" font-size="60" font-weight="700" text-anchor="middle">+0.1 SOL</text>')
-b.append(f'<text class="mono" x="{xs[2]}" y="{cy + 92}" font-size="22" text-anchor="middle" style="fill:rgb(244 244 245 / 0.6)">launch ≈ 0.02 SOL</text>')
+b.append(f'<text class="mono" x="{xs[2]}" y="{cy + 92}" font-size="22" text-anchor="middle" style="fill:rgb(244 246 238 / 0.6)">launch ≈ 0.02 SOL</text>')
 steps = [('Get your link', 'one tap, no sign-up'), ('Add it to Grok', 'paste it in Connectors'), ('Fund your wallet', 'just what you’ll launch with')]
 for x, (a, c) in zip(xs, steps):
     b.append(f'<text class="txt" x="{x}" y="{cy + 228}" font-size="36" font-weight="600" text-anchor="middle">{a}</text>')
@@ -96,20 +93,20 @@ b = ['<text class="disp" x="800" y="132" font-size="62" text-anchor="middle">The
 px, py, pw, ph = 230, 210, 1140, 560
 b.append(panel(px, py, pw, ph, 28))
 lx = px + 60
-b.append(f'<text class="mono" x="{lx}" y="{py + 80}" font-size="26" style="fill:rgb(244 244 245 / 0.38)">you</text>')
+b.append(f'<text class="mono" x="{lx}" y="{py + 80}" font-size="26" style="fill:rgb(244 246 238 / 0.38)">you</text>')
 b.append(f'<text class="mono" x="{lx}" y="{py + 128}" font-size="31">launch a coin called Moon Cat, ticker MCAT,</text>')
 b.append(f'<text class="mono" x="{lx}" y="{py + 172}" font-size="31">about a cat that lives on the moon</text>')
-b.append(f'<text class="mono" x="{lx}" y="{py + 256}" font-size="26" style="fill:rgb(244 244 245 / 0.38)">grok</text>')
-b.append(f'<text class="mono" x="{lx}" y="{py + 304}" font-size="31" style="fill:rgb(244 244 245 / 0.6)">Done. <tspan style="fill:#f4f4f5">Moon Cat ($MCAT)</tspan> is live on pump.fun:</text>')
+b.append(f'<text class="mono" x="{lx}" y="{py + 256}" font-size="26" style="fill:rgb(244 246 238 / 0.38)">grok</text>')
+b.append(f'<text class="mono" x="{lx}" y="{py + 304}" font-size="31" style="fill:rgb(244 246 238 / 0.6)">Done. <tspan style="fill:#f4f6ee">Moon Cat ($MCAT)</tspan> is live on pump.fun:</text>')
 b.append(f'<text class="mono lime" x="{lx}" y="{py + 348}" font-size="31">pump.fun/coin/7xKp…pump</text>')
-b.append(f'<text class="mono" x="{lx}" y="{py + 392}" font-size="31" style="fill:rgb(244 244 245 / 0.6)">Creator fees are locked: 80% to you, 20% to Grokpad.</text>')
+b.append(f'<text class="mono" x="{lx}" y="{py + 392}" font-size="31" style="fill:rgb(244 246 238 / 0.6)">Creator fees are locked: 80% to you, 20% to Grokpad.</text>')
 chips = ['“what’s my balance?”', '“sell my MCAT”', '“withdraw to my wallet”']
 cw = [330, 270, 380]
 gap = 24
 x = px + (pw - (sum(cw) + gap * 2)) / 2
 for c, w in zip(chips, cw):
-    b.append(f'<rect x="{x}" y="{py + 450}" width="{w}" height="64" rx="32" fill="#161619" stroke="rgb(255 255 255 / 0.16)" stroke-width="2"/>')
-    b.append(f'<text class="mono" x="{x + w / 2}" y="{py + 491}" font-size="23" text-anchor="middle" style="fill:rgb(244 244 245 / 0.6)">{c}</text>')
+    b.append(f'<rect x="{x}" y="{py + 450}" width="{w}" height="64" rx="32" fill="#121212" stroke="rgb(255 255 255 / 0.15)" stroke-width="2"/>')
+    b.append(f'<text class="mono" x="{x + w / 2}" y="{py + 491}" font-size="23" text-anchor="middle" style="fill:rgb(244 246 238 / 0.6)">{c}</text>')
     x += w + gap
 b.append('<text class="dim" x="800" y="850" font-size="27" text-anchor="middle">No wallet pop-ups. No forms.</text>')
 page('03-ask.html', 1600, 900, b)
@@ -132,14 +129,13 @@ b.append(f'<text class="mono lime" x="1090" y="{y1 + 34}" font-size="96" font-we
 b.append(f'<text class="txt" x="1450" y="{y1 - 6}" font-size="32" font-weight="600" text-anchor="end">You</text>')
 b.append(f'<text class="muted" x="1450" y="{y1 + 34}" font-size="25" text-anchor="end">your wallet</text>')
 b.append(panel(1050, y2 - 80, 440, 160))
-b.append(f'<text class="mono" x="1090" y="{y2 + 24}" font-size="70" font-weight="700" style="fill:rgb(244 244 245 / 0.6)">20%</text>')
-b.append(f'<text class="txt" x="1450" y="{y2 + 10}" font-size="32" font-weight="600" text-anchor="end" style="fill:rgb(244 244 245 / 0.6)">Grokpad</text>')
+b.append(f'<text class="mono" x="1090" y="{y2 + 24}" font-size="70" font-weight="700" style="fill:rgb(244 246 238 / 0.6)">20%</text>')
+b.append(f'<text class="txt" x="1450" y="{y2 + 10}" font-size="32" font-weight="600" text-anchor="end" style="fill:rgb(244 246 238 / 0.6)">Grokpad</text>')
 b.append('<text class="dim" x="800" y="840" font-size="27" text-anchor="middle">Locked on pump.fun’s fee program at launch. Nobody can change it, us included.</text>')
 page('04-fees.html', 1600, 900, b)
 
 # ---------------------------------------------------------------- 5 close 1600x900
-b = ['<ellipse cx="800" cy="390" rx="620" ry="300" fill="url(#glow)"/>']
-b.append(lockup(800, 380, 280, 140))
+b = [lockup(800, 370, 300)]
 b.append(f'<text class="mono lime" x="800" y="650" font-size="40" font-weight="500" text-anchor="middle">{URL}</text>')
 b.append('<text class="muted" x="800" y="720" font-size="32" text-anchor="middle">Say it. It’s live.</text>')
 page('05-close.html', 1600, 900, b)
